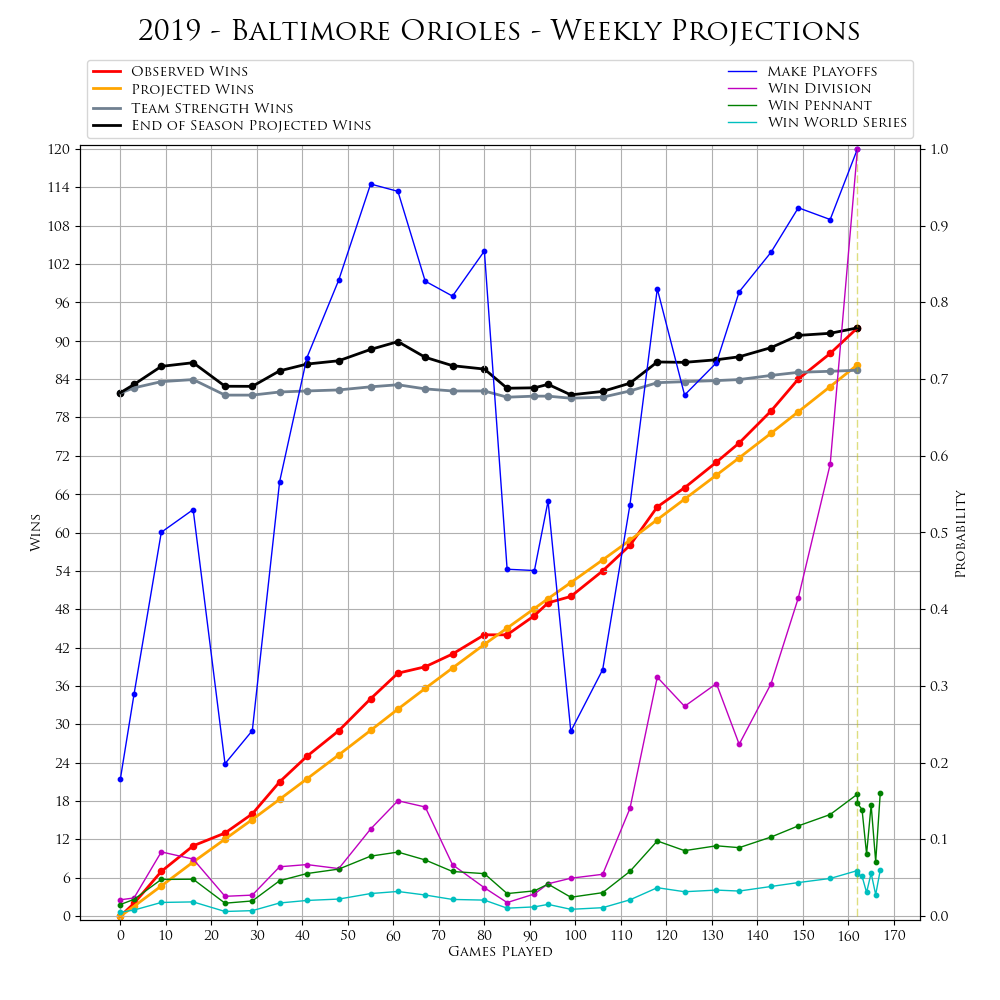
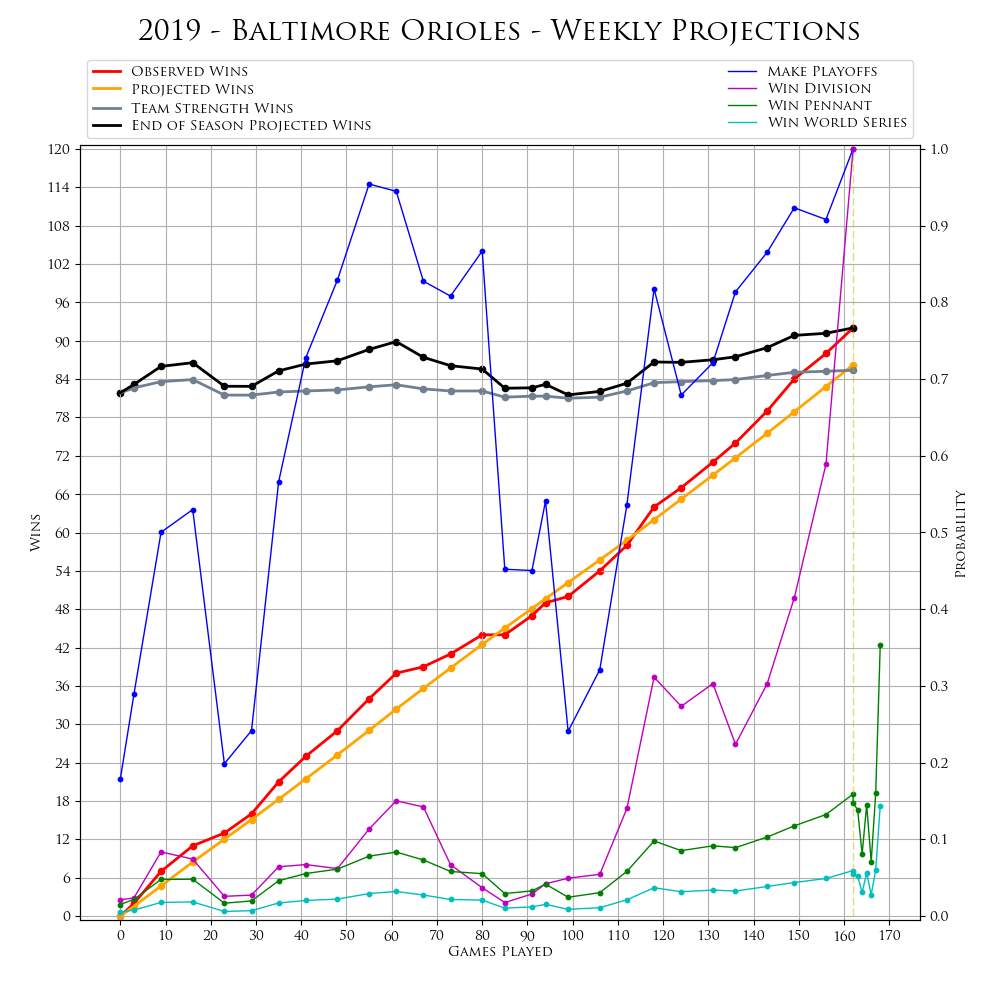
playoff NSBL update (Oct 05, 2019)

diff --git a/Tables/in_playoff_bracket.html b/Tables/in_playoff_bracket.html
@@ -182,6 +182,34 @@ _fnInitComplete:wa,_fnLengthChange:Ta,_fnFeatureHtmlLength:qb,_fnFeatureHtmlPagi
 _fnLog:K,_fnMap:F,_fnBindAction:Ya,_fnCallbackReg:z,_fnCallbackFire:s,_fnLengthOverflow:Ua,_fnRenderer:Pa,_fnDataSource:y,_fnRowAttributes:Na,_fnCalculateEnd:function(){}});h.fn.dataTable=m;m.$=h;h.fn.dataTableSettings=m.settings;h.fn.dataTableExt=m.ext;h.fn.DataTable=function(a){return h(this).dataTable(a).api()};h.each(m,function(a,b){h.fn.DataTable[a]=b});return h.fn.dataTable});
 </script>
 <script type="text/javascript">/*!
+ Scroller 1.4.2
+ ©2011-2016 SpryMedia Ltd - datatables.net/license
+*/
+(function(e){"function"===typeof define&&define.amd?define(["jquery","datatables.net"],function(h){return e(h,window,document)}):"object"===typeof exports?module.exports=function(h,j){h||(h=window);if(!j||!j.fn.dataTable)j=require("datatables.net")(h,j).$;return e(j,h,h.document)}:e(jQuery,window,document)})(function(e,h,j,l){var m=e.fn.dataTable,g=function(a,b){this instanceof g?(b===l&&(b={}),this.s={dt:e.fn.dataTable.Api(a).settings()[0],tableTop:0,tableBottom:0,redrawTop:0,redrawBottom:0,autoHeight:!0,
+viewportRows:0,stateTO:null,drawTO:null,heights:{jump:null,page:null,virtual:null,scroll:null,row:null,viewport:null},topRowFloat:0,scrollDrawDiff:null,loaderVisible:!1},this.s=e.extend(this.s,g.oDefaults,b),this.s.heights.row=this.s.rowHeight,this.dom={force:j.createElement("div"),scroller:null,table:null,loader:null},this.s.dt.oScroller||(this.s.dt.oScroller=this,this._fnConstruct())):alert("Scroller warning: Scroller must be initialised with the 'new' keyword.")};e.extend(g.prototype,{fnRowToPixels:function(a,
+b,c){a=c?this._domain("virtualToPhysical",a*this.s.heights.row):this.s.baseScrollTop+(a-this.s.baseRowTop)*this.s.heights.row;return b||b===l?parseInt(a,10):a},fnPixelsToRow:function(a,b,c){var d=a-this.s.baseScrollTop,a=c?this._domain("physicalToVirtual",a)/this.s.heights.row:d/this.s.heights.row+this.s.baseRowTop;return b||b===l?parseInt(a,10):a},fnScrollToRow:function(a,b){var c=this,d=!1,f=this.fnRowToPixels(a),i=a-(this.s.displayBuffer-1)/2*this.s.viewportRows;0>i&&(i=0);if((f>this.s.redrawBottom||
+f<this.s.redrawTop)&&this.s.dt._iDisplayStart!==i)d=!0,f=this.fnRowToPixels(a,!1,!0);"undefined"==typeof b||b?(this.s.ani=d,e(this.dom.scroller).animate({scrollTop:f},function(){setTimeout(function(){c.s.ani=!1},25)})):e(this.dom.scroller).scrollTop(f)},fnMeasure:function(a){this.s.autoHeight&&this._fnCalcRowHeight();var b=this.s.heights;b.row&&(b.viewport=e(this.dom.scroller).height(),this.s.viewportRows=parseInt(b.viewport/b.row,10)+1,this.s.dt._iDisplayLength=this.s.viewportRows*this.s.displayBuffer);
+(a===l||a)&&this.s.dt.oInstance.fnDraw(!1)},fnPageInfo:function(){var a=this.dom.scroller.scrollTop,b=this.s.dt.fnRecordsDisplay(),c=Math.ceil(this.fnPixelsToRow(a+this.s.heights.viewport,!1,this.s.ani));return{start:Math.floor(this.fnPixelsToRow(a,!1,this.s.ani)),end:b<c?b-1:c-1}},_fnConstruct:function(){var a=this;if(this.s.dt.oFeatures.bPaginate){this.dom.force.style.position="relative";this.dom.force.style.top="0px";this.dom.force.style.left="0px";this.dom.force.style.width="1px";this.dom.scroller=
+e("div."+this.s.dt.oClasses.sScrollBody,this.s.dt.nTableWrapper)[0];this.dom.scroller.appendChild(this.dom.force);this.dom.scroller.style.position="relative";this.dom.table=e(">table",this.dom.scroller)[0];this.dom.table.style.position="absolute";this.dom.table.style.top="0px";this.dom.table.style.left="0px";e(this.s.dt.nTableWrapper).addClass("DTS");this.s.loadingIndicator&&(this.dom.loader=e('<div class="dataTables_processing DTS_Loading">'+this.s.dt.oLanguage.sLoadingRecords+"</div>").css("display",
+"none"),e(this.dom.scroller.parentNode).css("position","relative").append(this.dom.loader));this.s.heights.row&&"auto"!=this.s.heights.row&&(this.s.autoHeight=!1);this.fnMeasure(!1);this.s.ingnoreScroll=!0;this.s.stateSaveThrottle=this.s.dt.oApi._fnThrottle(function(){a.s.dt.oApi._fnSaveState(a.s.dt)},500);e(this.dom.scroller).on("scroll.DTS",function(){a._fnScroll.call(a)});e(this.dom.scroller).on("touchstart.DTS",function(){a._fnScroll.call(a)});this.s.dt.aoDrawCallback.push({fn:function(){a.s.dt.bInitialised&&
+a._fnDrawCallback.call(a)},sName:"Scroller"});e(h).on("resize.DTS",function(){a.fnMeasure(false);a._fnInfo()});var b=!0;this.s.dt.oApi._fnCallbackReg(this.s.dt,"aoStateSaveParams",function(c,d){if(b&&a.s.dt.oLoadedState){d.iScroller=a.s.dt.oLoadedState.iScroller;d.iScrollerTopRow=a.s.dt.oLoadedState.iScrollerTopRow;b=false}else{d.iScroller=a.dom.scroller.scrollTop;d.iScrollerTopRow=a.s.topRowFloat}},"Scroller_State");this.s.dt.oLoadedState&&(this.s.topRowFloat=this.s.dt.oLoadedState.iScrollerTopRow||
+0);e(this.s.dt.nTable).one("init.dt",function(){a.fnMeasure()});this.s.dt.aoDestroyCallback.push({sName:"Scroller",fn:function(){e(h).off("resize.DTS");e(a.dom.scroller).off("touchstart.DTS scroll.DTS");e(a.s.dt.nTableWrapper).removeClass("DTS");e("div.DTS_Loading",a.dom.scroller.parentNode).remove();e(a.s.dt.nTable).off("init.dt");a.dom.table.style.position="";a.dom.table.style.top="";a.dom.table.style.left=""}})}else this.s.dt.oApi._fnLog(this.s.dt,0,"Pagination must be enabled for Scroller")},
+_fnScroll:function(){var a=this,b=this.s.heights,c=this.dom.scroller.scrollTop,d;if(!this.s.skip&&!this.s.ingnoreScroll)if(this.s.dt.bFiltered||this.s.dt.bSorted)this.s.lastScrollTop=0;else{this._fnInfo();clearTimeout(this.s.stateTO);this.s.stateTO=setTimeout(function(){a.s.dt.oApi._fnSaveState(a.s.dt)},250);if(c<this.s.redrawTop||c>this.s.redrawBottom){var f=Math.ceil((this.s.displayBuffer-1)/2*this.s.viewportRows);Math.abs(c-this.s.lastScrollTop)>b.viewport||this.s.ani?(d=parseInt(this._domain("physicalToVirtual",
+c)/b.row,10)-f,this.s.topRowFloat=this._domain("physicalToVirtual",c)/b.row):(d=this.fnPixelsToRow(c)-f,this.s.topRowFloat=this.fnPixelsToRow(c,!1));0>=d?d=0:d+this.s.dt._iDisplayLength>this.s.dt.fnRecordsDisplay()?(d=this.s.dt.fnRecordsDisplay()-this.s.dt._iDisplayLength,0>d&&(d=0)):0!==d%2&&d++;if(d!=this.s.dt._iDisplayStart&&(this.s.tableTop=e(this.s.dt.nTable).offset().top,this.s.tableBottom=e(this.s.dt.nTable).height()+this.s.tableTop,b=function(){if(a.s.scrollDrawReq===null)a.s.scrollDrawReq=
+c;a.s.dt._iDisplayStart=d;a.s.dt.oApi._fnDraw(a.s.dt)},this.s.dt.oFeatures.bServerSide?(clearTimeout(this.s.drawTO),this.s.drawTO=setTimeout(b,this.s.serverWait)):b(),this.dom.loader&&!this.s.loaderVisible))this.dom.loader.css("display","block"),this.s.loaderVisible=!0}else this.s.topRowFloat=this._domain("physicalToVirtual",c)/b.row;this.s.lastScrollTop=c;this.s.stateSaveThrottle()}},_domain:function(a,b){var c=this.s.heights,d;if(c.virtual===c.scroll)return b;var e=(c.scroll-c.viewport)/2,i=(c.virtual-
+c.viewport)/2;d=i/(e*e);if("virtualToPhysical"===a){if(b<i)return Math.pow(b/d,0.5);b=2*i-b;return 0>b?c.scroll:2*e-Math.pow(b/d,0.5)}if("physicalToVirtual"===a){if(b<e)return b*b*d;b=2*e-b;return 0>b?c.virtual:2*i-b*b*d}},_fnDrawCallback:function(){var a=this,b=this.s.heights,c=this.dom.scroller.scrollTop,d=e(this.s.dt.nTable).height(),f=this.s.dt._iDisplayStart,i=this.s.dt._iDisplayLength,g=this.s.dt.fnRecordsDisplay();this.s.skip=!0;this._fnScrollForce();c=0===f?this.s.topRowFloat*b.row:f+i>=g?
+b.scroll-(g-this.s.topRowFloat)*b.row:this._domain("virtualToPhysical",this.s.topRowFloat*b.row);this.dom.scroller.scrollTop=c;this.s.baseScrollTop=c;this.s.baseRowTop=this.s.topRowFloat;var h=c-(this.s.topRowFloat-f)*b.row;0===f?h=0:f+i>=g&&(h=b.scroll-d);this.dom.table.style.top=h+"px";this.s.tableTop=h;this.s.tableBottom=d+this.s.tableTop;d=(c-this.s.tableTop)*this.s.boundaryScale;this.s.redrawTop=c-d;this.s.redrawBottom=c+d;this.s.skip=!1;this.s.dt.oFeatures.bStateSave&&null!==this.s.dt.oLoadedState&&
+"undefined"!=typeof this.s.dt.oLoadedState.iScroller?((c=(this.s.dt.sAjaxSource||a.s.dt.ajax)&&!this.s.dt.oFeatures.bServerSide?!0:!1)&&2==this.s.dt.iDraw||!c&&1==this.s.dt.iDraw)&&setTimeout(function(){e(a.dom.scroller).scrollTop(a.s.dt.oLoadedState.iScroller);a.s.redrawTop=a.s.dt.oLoadedState.iScroller-b.viewport/2;setTimeout(function(){a.s.ingnoreScroll=!1},0)},0):a.s.ingnoreScroll=!1;this.s.dt.oFeatures.bInfo&&setTimeout(function(){a._fnInfo.call(a)},0);this.dom.loader&&this.s.loaderVisible&&
+(this.dom.loader.css("display","none"),this.s.loaderVisible=!1)},_fnScrollForce:function(){var a=this.s.heights;a.virtual=a.row*this.s.dt.fnRecordsDisplay();a.scroll=a.virtual;1E6<a.scroll&&(a.scroll=1E6);this.dom.force.style.height=a.scroll>this.s.heights.row?a.scroll+"px":this.s.heights.row+"px"},_fnCalcRowHeight:function(){var a=this.s.dt,b=a.nTable,c=b.cloneNode(!1),d=e("<tbody/>").appendTo(c),f=e('<div class="'+a.oClasses.sWrapper+' DTS"><div class="'+a.oClasses.sScrollWrapper+'"><div class="'+
+a.oClasses.sScrollBody+'"></div></div></div>');for(e("tbody tr:lt(4)",b).clone().appendTo(d);3>e("tr",d).length;)d.append("<tr><td>&nbsp;</td></tr>");e("div."+a.oClasses.sScrollBody,f).append(c);a=this.s.dt.nHolding||b.parentNode;e(a).is(":visible")||(a="body");f.appendTo(a);this.s.heights.row=e("tr",d).eq(1).outerHeight();f.remove()},_fnInfo:function(){if(this.s.dt.oFeatures.bInfo){var a=this.s.dt,b=a.oLanguage,c=this.dom.scroller.scrollTop,d=Math.floor(this.fnPixelsToRow(c,!1,this.s.ani)+1),f=a.fnRecordsTotal(),
+i=a.fnRecordsDisplay(),c=Math.ceil(this.fnPixelsToRow(c+this.s.heights.viewport,!1,this.s.ani)),c=i<c?i:c,g=a.fnFormatNumber(d),h=a.fnFormatNumber(c),j=a.fnFormatNumber(f),k=a.fnFormatNumber(i),g=0===a.fnRecordsDisplay()&&a.fnRecordsDisplay()==a.fnRecordsTotal()?b.sInfoEmpty+b.sInfoPostFix:0===a.fnRecordsDisplay()?b.sInfoEmpty+" "+b.sInfoFiltered.replace("_MAX_",j)+b.sInfoPostFix:a.fnRecordsDisplay()==a.fnRecordsTotal()?b.sInfo.replace("_START_",g).replace("_END_",h).replace("_MAX_",j).replace("_TOTAL_",
+k)+b.sInfoPostFix:b.sInfo.replace("_START_",g).replace("_END_",h).replace("_MAX_",j).replace("_TOTAL_",k)+" "+b.sInfoFiltered.replace("_MAX_",a.fnFormatNumber(a.fnRecordsTotal()))+b.sInfoPostFix;(b=b.fnInfoCallback)&&(g=b.call(a.oInstance,a,d,c,f,i,g));d=a.aanFeatures.i;if("undefined"!=typeof d){f=0;for(i=d.length;f<i;f++)e(d[f]).html(g)}e(a.nTable).triggerHandler("info.dt")}}});g.defaults={trace:!1,rowHeight:"auto",serverWait:200,displayBuffer:9,boundaryScale:0.5,loadingIndicator:!1};g.oDefaults=
+g.defaults;g.version="1.4.2";"function"==typeof e.fn.dataTable&&"function"==typeof e.fn.dataTableExt.fnVersionCheck&&e.fn.dataTableExt.fnVersionCheck("1.10.0")?e.fn.dataTableExt.aoFeatures.push({fnInit:function(a){var b=a.oInit;new g(a,b.scroller||b.oScroller||{})},cFeature:"S",sFeature:"Scroller"}):alert("Warning: Scroller requires DataTables 1.10.0 or greater - www.datatables.net/download");e(j).on("preInit.dt.dtscroller",function(a,b){if("dt"===a.namespace){var c=b.oInit.scroller,d=m.defaults.scroller;
+if(c||d)d=e.extend({},c,d),!1!==c&&new g(b,d)}});e.fn.dataTable.Scroller=g;e.fn.DataTable.Scroller=g;var k=e.fn.dataTable.Api;k.register("scroller()",function(){return this});k.register("scroller().rowToPixels()",function(a,b,c){var d=this.context;if(d.length&&d[0].oScroller)return d[0].oScroller.fnRowToPixels(a,b,c)});k.register("scroller().pixelsToRow()",function(a,b,c){var d=this.context;if(d.length&&d[0].oScroller)return d[0].oScroller.fnPixelsToRow(a,b,c)});k.register("scroller().scrollToRow()",
+function(a,b){this.iterator("table",function(c){c.oScroller&&c.oScroller.fnScrollToRow(a,b)});return this});k.register("row().scrollTo()",function(a){var b=this;this.iterator("row",function(c,d){if(c.oScroller){var e=b.rows({order:"applied",search:"applied"}).indexes().indexOf(d);c.oScroller.fnScrollToRow(e,a)}});return this});k.register("scroller.measure()",function(a){this.iterator("table",function(b){b.oScroller&&b.oScroller.fnMeasure(a)});return this});k.register("scroller.page()",function(){var a=
+this.context;if(a.length&&a[0].oScroller)return a[0].oScroller.fnPageInfo()});return g});
+</script>
+<script type="text/javascript">/*!
  Buttons for DataTables 1.3.1
  ©2016 SpryMedia Ltd - datatables.net/license
 */
@@ -227,7 +255,7 @@ c+"</h1><div>"+("function"===typeof e.message?e.message(b,h,e):e.message)+"</div
 </script>
 <script>
 		$(document).ready(function() {
-			$("#table").DataTable({"dom":"Bfrtip","sScrollX":"100%","scrollY":"70vh","buttons":["copy","csv","json","print"],"paging":true,"lengthMenu":[[-1,10,25,50],["All",10,25,50]],"data":[["ALDS1","Baltimore Orioles","Texas Rangers","2","2","45.4%","","","45.4%","",""],["ALDS1","Texas Rangers","Baltimore Orioles","2","2","54.6%","","","54.6%","",""],["ALDS2","Chicago White Sox","Tampa Bay Rays","1","3","0.0%","","","","",""],["ALDS2","Tampa Bay Rays","Chicago White Sox","3","1","100.0%","","100.0%","","",""],["ALWC","Oakland Athletics","Tampa Bay Rays","0","1","0.0%","","","","",""],["ALWC","Tampa Bay Rays","Oakland Athletics","1","0","100.0%","","","","",""],["NLDS1","Pittsburgh Pirates","San Diego Padres","2","2","47.2%","","","47.2%","",""],["NLDS1","San Diego Padres","Pittsburgh Pirates","2","2","52.8%","","","52.8%","",""],["NLDS2","Atlanta Braves","Colorado Rockies","2","2","46.8%","","","46.8%","",""],["NLDS2","Colorado Rockies","Atlanta Braves","2","2","53.2%","","","53.2%","",""],["NLWC","Colorado Rockies","Miami Marlins","1","0","100.0%","","","","",""],["NLWC","Miami Marlins","Colorado Rockies","0","1","0.0%","","","","",""]],"sScrollXInner":"100%","columns":[{"title":"Series ID"},{"title":"Team Name"},{"title":"Opponent Name"},{"title":"Series Wins"},{"title":"Series Losses"},{"title":"Advance Probability"},{"title":"Win in 3"},{"title":"Win in 4"},{"title":"Win in 5"},{"title":"Win in 6"},{"title":"Win in 7"}],"iDisplayLength":-1});
+			$("#table").DataTable({"scroller":true,"dom":"Bfrtip","sScrollX":"100%","scrollY":"70vh","buttons":["copy","csv","json","print"],"paging":true,"bPaginate":false,"bLengthChange":false,"deferRender":true,"data":[["ALCS","Baltimore Orioles","Tampa Bay Rays","0","0","35.3%","","3.5%","7.9%","11.2%","12.7%"],["ALCS","Tampa Bay Rays","Baltimore Orioles","0","0","64.7%","","10.5%","18.0%","19.5%","16.8%"],["ALDS1","Baltimore Orioles","Texas Rangers","3","2","100.0%","","","100.0%","",""],["ALDS1","Texas Rangers","Baltimore Orioles","2","3","0.0%","","","","",""],["ALDS2","Chicago White Sox","Tampa Bay Rays","1","3","0.0%","","","","",""],["ALDS2","Tampa Bay Rays","Chicago White Sox","3","1","100.0%","","100.0%","","",""],["ALWC","Oakland Athletics","Tampa Bay Rays","0","1","0.0%","","","","",""],["ALWC","Tampa Bay Rays","Oakland Athletics","1","0","100.0%","","","","",""],["NLCS","Atlanta Braves","Pittsburgh Pirates","0","0","54.4%","","7.3%","14.1%","16.9%","16.2%"],["NLCS","Pittsburgh Pirates","Atlanta Braves","0","0","45.6%","","5.3%","11.0%","14.3%","14.9%"],["NLDS1","Pittsburgh Pirates","San Diego Padres","3","2","100.0%","","","100.0%","",""],["NLDS1","San Diego Padres","Pittsburgh Pirates","2","3","0.0%","","","","",""],["NLDS2","Atlanta Braves","Colorado Rockies","3","2","100.0%","","","100.0%","",""],["NLDS2","Colorado Rockies","Atlanta Braves","2","3","0.0%","","","","",""],["NLWC","Colorado Rockies","Miami Marlins","1","0","100.0%","","","","",""],["NLWC","Miami Marlins","Colorado Rockies","0","1","0.0%","","","","",""]],"sScrollXInner":"100%","columns":[{"title":"Series ID"},{"title":"Team Name"},{"title":"Opponent Name"},{"title":"Series Wins"},{"title":"Series Losses"},{"title":"Advance Probability"},{"title":"Win in 3"},{"title":"Win in 4"},{"title":"Win in 5"},{"title":"Win in 6"},{"title":"Win in 7"}],"iDisplayLength":-1});
 		});
 	</script>
 <style>

diff --git a/Tables/in_playoff_probabilities.html b/Tables/in_playoff_probabilities.html
@@ -227,7 +227,7 @@ c+"</h1><div>"+("function"===typeof e.message?e.message(b,h,e):e.message)+"</div
 </script>
 <script>
 		$(document).ready(function() {
-			$("#table").DataTable({"dom":"Bfrtip","sScrollX":"100%","scrollY":"70vh","buttons":["copy","csv","json","print"],"paging":true,"lengthMenu":[[-1,10,25,50],["All",10,25,50]],"data":[["Atlanta Braves","100.0%","0.0%","","100.0%","46.8%","24.0%","11.9%"],["Baltimore Orioles","100.0%","0.0%","","100.0%","45.4%","16.0%","6.0%"],["Chicago White Sox","100.0%","0.0%","","100.0%","0.0%","0.0%","0.0%"],["Colorado Rockies","0.0%","100.0%","100.0%","100.0%","53.2%","31.0%","17.6%"],["Miami Marlins","0.0%","100.0%","0.0%","0.0%","0.0%","0.0%","0.0%"],["Oakland Athletics","0.0%","100.0%","0.0%","0.0%","0.0%","0.0%","0.0%"],["Pittsburgh Pirates","100.0%","0.0%","","100.0%","47.2%","19.8%","9.0%"],["San Diego Padres","100.0%","0.0%","","100.0%","52.8%","25.3%","13.0%"],["Tampa Bay Rays","0.0%","100.0%","100.0%","100.0%","100.0%","59.4%","31.0%"],["Texas Rangers","100.0%","0.0%","","100.0%","54.6%","24.6%","11.6%"]],"sScrollXInner":"100%","columns":[{"title":"Team Name"},{"title":"Win Div"},{"title":"Make Wild Card"},{"title":"Win Wild Card"},{"title":"Make LDS"},{"title":"Make LCS"},{"title":"Make WS"},{"title":"Win WS"}],"iDisplayLength":-1});
+			$("#table").DataTable({"dom":"Bfrtip","sScrollX":"100%","scrollY":"70vh","buttons":["copy","csv","json","print"],"paging":true,"lengthMenu":[[-1,10,25,50],["All",10,25,50]],"data":[["Atlanta Braves","100.0%","0.0%","","100.0%","100.0%","54.4%","28.0%"],["Baltimore Orioles","100.0%","0.0%","","100.0%","100.0%","35.3%","14.4%"],["Chicago White Sox","100.0%","0.0%","","100.0%","0.0%","0.0%","0.0%"],["Colorado Rockies","0.0%","100.0%","100.0%","100.0%","0.0%","0.0%","0.0%"],["Miami Marlins","0.0%","100.0%","0.0%","0.0%","0.0%","0.0%","0.0%"],["Oakland Athletics","0.0%","100.0%","0.0%","0.0%","0.0%","0.0%","0.0%"],["Pittsburgh Pirates","100.0%","0.0%","","100.0%","100.0%","45.6%","21.5%"],["San Diego Padres","100.0%","0.0%","","100.0%","0.0%","0.0%","0.0%"],["Tampa Bay Rays","0.0%","100.0%","100.0%","100.0%","100.0%","64.7%","36.1%"],["Texas Rangers","100.0%","0.0%","","100.0%","0.0%","0.0%","0.0%"]],"sScrollXInner":"100%","columns":[{"title":"Team Name"},{"title":"Win Div"},{"title":"Make Wild Card"},{"title":"Win Wild Card"},{"title":"Make LDS"},{"title":"Make LCS"},{"title":"Make WS"},{"title":"Win WS"}],"iDisplayLength":-1});
 		});
 	</script>
 <style>
